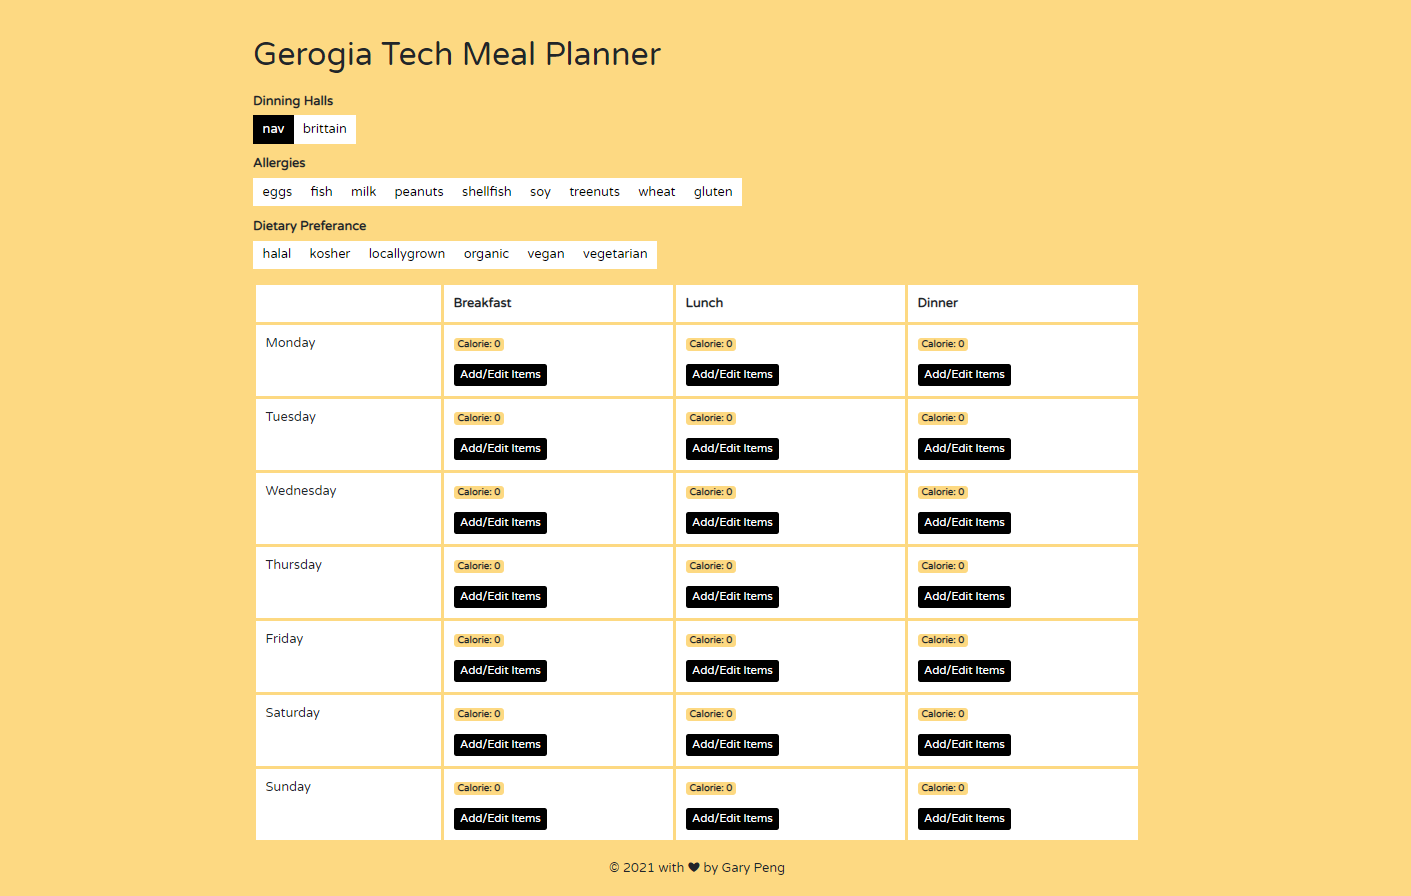
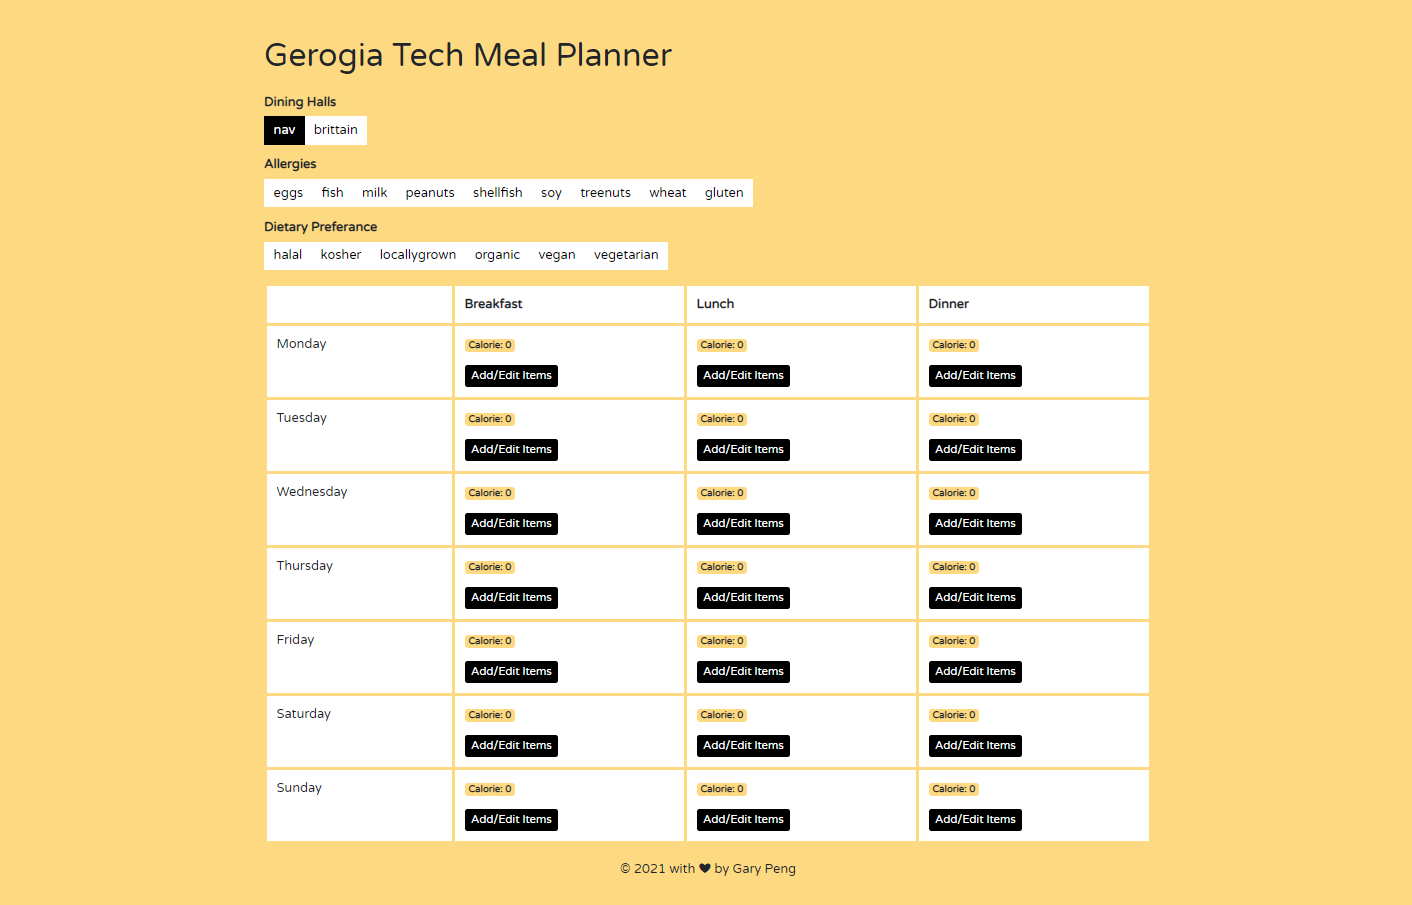
Typo

Changed region(s): [[0.1559, 0.0312, 0.8108, 0.9688]]

diff --git a/client/src/App.js b/client/src/App.js
@@ -1,24 +1,24 @@
 import React, { useState } from "react";
 import Restrictions from "./components/Restrictions";
-import DinningHalls from "./components/DinningHalls";
+import DiningHalls from "./components/DiningHalls";
 import Calendar from "./components/Calendar"
-import { RestrictContext, DinnHallContext } from "./context/GlobalContext";
+import {RestrictContext, DinHallContext} from "./context/GlobalContext";
 
 import "./App.css";
 
 function App() {
     const [restrict, setRestrict] = useState([]);
-    const [dinnHall, setDinnHall] = useState("nav");
+    const [dinHall, setDinHall] = useState("nav");
 
     return (
         <div className="container">
             <h1 className="mt-5">Gerogia Tech Meal Planner</h1>
             <RestrictContext.Provider value={{restrict, setRestrict}}>
-                <DinnHallContext.Provider value={{dinnHall, setDinnHall}}>
-                    <DinningHalls />
+                <DinHallContext.Provider value={{dinHall, setDinHall}}>
+                    <DiningHalls />
                     <Restrictions />
                     <Calendar />
-                </DinnHallContext.Provider>
+                </DinHallContext.Provider>
             </RestrictContext.Provider>
         </div>
     );

diff --git a/client/src/components/Menu.js b/client/src/components/Menu.js
@@ -1,17 +1,17 @@
 import React, {useState, useContext, useEffect} from "react";
 import {Modal, ToggleButton, ToggleButtonGroup, Badge} from "react-bootstrap";
-import {RestrictContext, DinnHallContext} from "../context/GlobalContext"
+import {RestrictContext, DinHallContext} from "../context/GlobalContext"
 
 export default function Menu(prop) {
     const {restrict, setRestrict} = useContext(RestrictContext);
-    const {dinnHall, setDinnHall} = useContext(DinnHallContext);
+    const {dinHall, setDinHall} = useContext(DinHallContext);
     
     const [menu, setMenu] = useState([]);
     const [error, setError] = useState(null);
     const [isLoaded, setIsLoaded] = useState(false);
 
     useEffect(() => {
-        fetch("/api/menu/" + dinnHall + "/" + prop.meal)
+        fetch("/api/menu/" + dinHall + "/" + prop.meal)
         .then(res => res.json())
         .then(
             (result) => {
@@ -23,7 +23,7 @@ export default function Menu(prop) {
                 setError(error);
             }
         );
-    }, [dinnHall]);
+    }, [dinHall]);
 
     if (error) {
         return <div>Error: {error.message}</div>;

diff --git a/client/src/components/DiningHalls.js b/client/src/components/DiningHalls.js
@@ -1,0 +1,21 @@
+import React, {useState, useContext} from "react";
+import ToggleButton from "react-bootstrap/ToggleButton";
+import ToggleButtonGroup from "react-bootstrap/ToggleButtonGroup";
+import {DinHallContext} from "../context/GlobalContext"
+
+export default function DiningHalls() {
+    const {dinHall, setDinHall} = useContext(DinHallContext);
+
+    const handleChange = (val) => setDinHall(val);
+
+    const diningHalls = ["nav"];
+
+    return (
+        <div className="mt-4">
+            <h6 className="font-weight-bold">Dining Halls (brittain is currently closed)</h6>
+            <ToggleButtonGroup type="radio" name="dinningHallOptions" value={dinHall} onChange={handleChange}>
+                {diningHalls.map((diningHall) => <ToggleButton className="rounded-0 shadow-none btn-white" value={diningHall}>{diningHall}</ToggleButton>)}
+            </ToggleButtonGroup>
+        </div>
+    );
+}

diff --git a/client/src/context/GlobalContext.js b/client/src/context/GlobalContext.js
@@ -1,4 +1,4 @@
 import { createContext } from "react";
 
 export const RestrictContext = createContext();
-export const DinnHallContext = createContext();
+export const DinHallContext = createContext();

diff --git a/README.md b/README.md
@@ -1,4 +1,4 @@
 ![screenshot](client/public/screenshot.PNG)
 # GT Meal Planner
-🍽Get the current menu from Georgia Tech dining halls. Meal plan with the dietary restriction filter and calorie calculator.\
+🍽An app that helps Georgia Tech students make weekly dining hall meal plans based on fitness goals and dietary restrictions.\
 [Check it out](https://gt-meal-planner.herokuapp.com)
